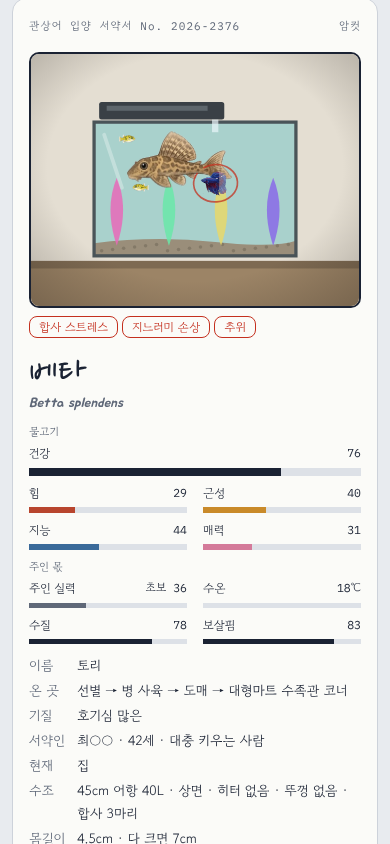
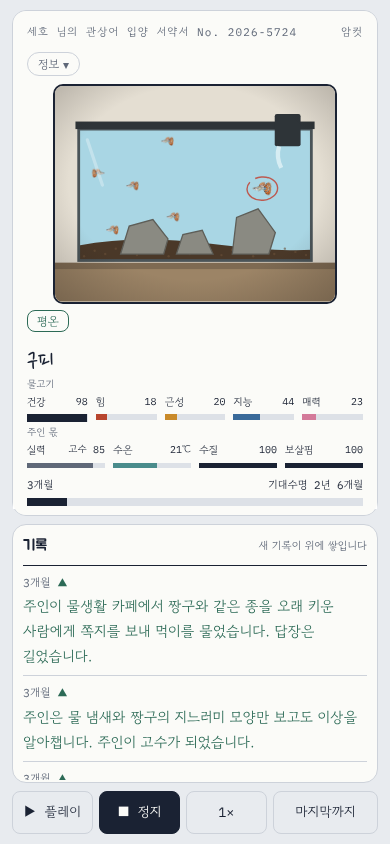
Docs for the release: shared memorial architecture, one-screen play, milestones (v0.9.30)

diff --git a/public/index.html b/public/index.html
@@ -120,7 +120,7 @@
     <div class="row memtools"><button type="button" class="btn ghost" id="pubMore" hidden>더 보기</button></div>
   </section>
 
-  <p class="foot">물고기 이야기 속 사건과 확률은 실제 통계(공공 수족관의 연간 폐사율, 운송·판매 중 폐사 조사, 선물로 받은 금붕어의 생존 등)에 맞춰 조정한 추정치이고, 화면에 사실로 나오는 수치는 모두 출처가 있습니다. 출처 목록은 저장소의 docs/DATA_SOURCES.md에 있습니다. 남긴 생과 닉네임은 이 브라우저(localStorage)에 저장됩니다. '모두의 주마등에도 올리기'를 고른 생만 서약인 이름, 물고기, 결말, 마지막 한마디와 함께 공개됩니다.<span class="ver">베타 v0.9.29 · 관상어 데이 · PARK, SEHO</span></p>
+  <p class="foot">물고기 이야기 속 사건과 확률은 실제 통계(공공 수족관의 연간 폐사율, 운송·판매 중 폐사 조사, 선물로 받은 금붕어의 생존 등)에 맞춰 조정한 추정치이고, 화면에 사실로 나오는 수치는 모두 출처가 있습니다. 출처 목록은 저장소의 docs/DATA_SOURCES.md에 있습니다. 남긴 생과 닉네임은 이 브라우저(localStorage)에 저장됩니다. '모두의 주마등에도 올리기'를 고른 생만 서약인 이름, 물고기, 결말, 마지막 한마디와 함께 공개됩니다.<span class="ver">베타 v0.9.30 · 관상어 데이 · PARK, SEHO</span></p>
 </div>
 
 <!-- load order matters: later files use what earlier files declare -->

diff --git a/LOG.md b/LOG.md
@@ -15,7 +15,7 @@ Status: ✅ Done · 🔄 In progress · ⬜ Not started
 | P2 | Content | 213 everyday events, 34 choices, 56 endings, 소감 / last words | ✅ | 2026-10-10 |
 | P3 | Art | Painterly round characters for 42 species, idle animation, cartoon gags, explicit endings; painted sprites for 15 dog breeds and 23 ornamental fish | ✅ | 2026-10-11 |
 | P4 | Data & balance | Sources per number, per-species tuning with `tools/sim.mjs` | 🔄 | |
-| P5 | Release | Public beta live at https://keep-me-until-the-end.onrender.com (GitHub → Render blueprint) | ✅ | 2026-10-12 |
+| P5 | Release | Public beta live at https://keep-me-until-the-end.onrender.com (GitHub → Render blueprint); shared memorial on Supabase | ✅ | 2026-10-12 |
 | P6 | Portfolio | Notion case-study page | ⬜ | |
 
 ## History
@@ -55,6 +55,7 @@ Status: ✅ Done · 🔄 In progress · ⬜ Not started
 | 2026-10-11 | v0.9.22 | **Rule change (user, 2026-10-11): wounds may bleed in text** — the tone stays a cruel fairy tale for ages 15+, drawings are unchanged. **Fact `fChain` rewritten:** the vague "2% to over 70%" is replaced by two concrete findings — 40 of 50 boxes of cardinal tetras imported to the US lost to mortality (Chapman et al. 1997) and 30–70% of Amazon-caught fish dead before the consumer (Waichman et al. 2001), both via Oliveira et al. 2008 (Acta Amazonica 38(4)); the ending paragraph under it no longer repeats the fact. **Stats split in two rows:** 물고기 — 건강 (HP) · 힘 · 근성 · 지능 · 매력; 주인 몫 — 주인 실력 · 수온 · 수질 · 보살핌 (in the wild: 강물 — 수온 · 먹이 찾기). New stat 힘 (strength): wins fights with its own kind, takes less fin damage and bullying, adds to crisis survival; 근성 now also slows health loss; 영리함 → 지능, 애교 → 매력. 수온 is a °C reading derived from the same conditions the hazards use (season, heater, small bowl, window, pond, river, warm outflow; 36 °C during a stuck-heater crisis) with a bar for how far it is from the species' range (cold 18–24, cool 22–26, tropical 24–28, warm 22–30). Training gains and descriptions follow the new stats; schedule prompts include "살아남아, {n}." **Crueler:** the fish's own voice (「숨이… 숨이 안 쉬어져.」「아가미가 뜨거워.」「아파. 꼬리가 없어진 것 같아.」) follows ~70% of lines about ammonia, chlorine, cold, heat, the bag, hunger, wounds, disease, sorting, the hand, the cat, the floor (at most one per step, not in skip mode); endings for uncycled tanks, neglect, disease (a last-stage line per disease), nipping, mauling, being eaten, jumping, tap water, culling and stress are rewritten in the body, with blood where there are wounds; fights and training failures bleed. Anchors unchanged: experts 6%/yr, learners 22% / casual 81% / gift 93% dead in year 1, 27% before any owner |
 | 2026-10-11 | v0.9.23 | The fish's voice is written under the line it answers, inside the same log row (it was a separate row above it and broke the log's grid); still kept as its own line in the 주마등 replay |
 | 2026-10-11 | v0.9.24 | **Context checks (the small things):** the fish's voice only answers bad lines (or good ones with a matching good voice: clean water, food from the hand, recovery, a hiding place) and the patterns were tightened — "먹이를 물었습니다" (asked) no longer reads as a bite, a water change "온도와 염소까지 맞춘" no longer burns. **A pond is not a room:** situations, options, everyday lines, training, twists and the fish's voice that need a glass tank in a room (glass, lid, heater, lights, window, TV, shelf, living room, siphon, stand…) are left out in a garden pond; "수조" in a pond log and in choice prompts reads "연못"; the lid fix becomes a net over the pond (also a new learning step for ponds without one); tap-water, soap/spray/hot-water poisoning and the siphon no longer happen in a pond; the winter blackout mentions the heater only when there is one (ponds freeze over instead); velvet rubs on stones in a pond; the charm line of a calm ending speaks of the pond's edge; a neglectful pond owner stops going out to the pond. Training failures only pick a mishap that fits the tank (no heater burn without a heater, no filter without one, no tankmates when alone); three pond-only schedule options (hide deep from herons, take food from the owner's hand, swim the pond's length). Lines about "other fish" in solo tanks and the old filter "thrown away" after an upgrade were fixed. **Owner rank** from 주인 실력: 왕초보 (<30) · 초보 (30) · 중수 (55) · 고수 (78), shown on the meter; each rank-up writes a line; a diligent learner who reaches 고수 after at least three lessons becomes an expert. Anchors: experts 5%/yr, learners 19% / casual 80% / gift 96% dead in year 1, 27% before any owner |
+| 2026-10-12 | v0.9.30 | **Documentation for the release day.** README: architecture of the shared memorial (static site on Render + Supabase with read/insert-only row-level security), the design decisions added today (the signer is the player; one screen while a life plays; facts checked per species), a milestone table, new desktop and phone screenshots of the one-screen layout with and without a dialog. DESIGN: sections on the signer, the screen layout and the shared memorial. DEPLOY: the Supabase step. ROADMAP: release outcome and next steps. Small fix found while taking the screenshots: an owner who reaches 중수 or 고수 now fits a thermostat heater to a tropical tank that had none |
 | 2026-10-12 | v0.9.29 | **모두의 주마등 is live.** Supabase project in Seoul with the `lives` table, row-level security (anyone may read and insert; nobody may change or delete from the browser), a `life_stats` counter and a 20-posts-a-minute trigger. The page uses the publishable key (apikey header only). Verified from a browser: insert 201, select 200, anonymous delete affects 0 rows; in headless Chromium a finished life posts with the box ticked (≈2 KB per life) and the shared list opens in the replay. Header line reads "지금까지 남겨진 생 n · 끝까지 산 생 m" |
 | 2026-10-12 | v0.9.28 | **The "실제로는" fact is about this fish.** A pea puffer killed in a fight was shown the betta fact. New `tools/check_facts.mjs` plays every species and lists which fact each ending showed, plus log lines that contradict the tank (heater, filter, pond, another species). Fixed: fights of non-bettas get the temperament fact; the pond heron ending gets a pond fact unless the fish is a koi; suffocation under a sealed lid gets an air-breathing fact unless it is a bichir; swim-bladder and Tetrahymena facts no longer talk about goldfish and guppies for other fish; species-specific virus facts (goldfish herpes, KHV, neon tetra disease, holes) fall back to the water-quality fact for other species; the generic accident fact no longer mentions cat-proof windows and leashes; fish abandoned on moving day get a moving fact instead of the owner-collapse one. Non-betta fights are no longer described as gill flaring. Big fish that are not hunters (pleco, clown loach) no longer become the river's top predator in a warm outflow; they settle there instead |
 | 2026-10-12 | v0.9.27 | **The player is the owner.** The pledge cannot be sent without a signer's name; the sheet shows "<name> 님의 반려생물 입양 서약서" as it is typed, and the first owner of every fish is the player under that name ("서약인 세호 님이 서약서에 서명했습니다", "세호 님은 휴대폰으로 사육법을 검색하며… 초보였습니다"); the owner type (expert, learner, casual…) is still drawn — it is what kind of keeper the player turns out to be. Later owners after a rehoming are other people. **One screen while a life plays:** nothing but the log scrolls. Desktop and landscape: the card (stage, gauges, details) with the controls on the left, the log in its own scrolling panel on the right; portrait tablets and phones: the card on top (details folded behind "정보"), the log below, controls at the bottom; every choice is a dialog over the screen (a bottom sheet on phones). The page returns to normal scrolling at the ending. Checked at 360×640 to 1440×900 and 844×390: the page height equals the screen height in play. **모두의 주마등 (shared memorial):** a kept life can also be posted for other players to replay (opt-in box; nickname, fish, ending, last words become public). Supabase table with insert/select-only row-level security, a 20-posts-a-minute limit, masked slurs, and every row rebuilt with known types before it is shown; hidden until the project keys are set (docs/SHARING.md) |

diff --git a/README.md b/README.md
@@ -14,15 +14,16 @@ A browser life-simulation about the promises we make to the animals we keep.
 > signed six promises. You choose its temperament, make its choices when it matters, raise it
 > through the seasons — and watch which promises are struck out in red pen.
 
-**Status:** public beta (v0.9.29, *관상어 데이* — "ornamental fish day": fish only) · **Live:** [keep-me-until-the-end.onrender.com](https://keep-me-until-the-end.onrender.com) · **Stack:** plain HTML / CSS / JavaScript, no build step · **Hosting:** Render static site · **Language:** the game is in Korean; all documentation is in English
+**Status:** public beta (v0.9.30, *관상어 데이* — "ornamental fish day": fish only) · **Live:** [keep-me-until-the-end.onrender.com](https://keep-me-until-the-end.onrender.com) · **Stack:** plain HTML / CSS / JavaScript, no build step · **Hosting:** Render static site + Supabase (shared memorial) · **Language:** the game is in Korean; all documentation is in English
 
 > **Content warning.** Neglect, breeding mills, smuggling, fish eaten by tankmates or flushed
 > alive are told as a cruel fairy tale: plain sentences, wounds that bleed in text, no gore in the
 > drawings. Intended for ages 15+.
 
-| Desktop | Phone |
+| Desktop — one screen: tank and gauges left, log right | Phone — tank on top, log below, controls at the bottom |
 |---|---|
 | ![desktop](docs/img/beta-desktop.png) | ![phone](docs/img/beta-phone.png) |
+| ![a schedule card as a dialog](docs/img/beta-desktop-choice.png) | ![a choice as a bottom sheet](docs/img/beta-phone-choice.png) |
 
 ## What happens in a life
 
@@ -48,6 +49,27 @@ The player signs the pledge with a nickname and is the fish's first owner under 
 keeper they turn out to be (expert, learner, casual…) is drawn. While a life plays, everything is on one
 screen: the tank and gauges, a scrolling log, and choices that open as dialogs.
 
+## Shared memorial (모두의 주마등)
+
+Finished lives can be shared between players. When a life is kept, a ticked box also posts it to a
+shared table; every visitor sees the latest lives at the bottom of the page and can replay any of them
+line by line, with its broken promises and last words.
+
+```
+browser (static site on Render)                 Supabase (Postgres, Seoul)
+  share.js ── POST /rest/v1/lives ───────────►  lives: nick, species, cause, kept, rec (jsonb)
+           ◄─ GET  /rest/v1/lives, life_stats ─  row-level security: read + insert only
+```
+
+- **No accounts, opt-in.** Only the nickname, the fish, the ending and the life record are stored, and
+  only when the player leaves the box ticked. The footer says so.
+- **Safe by construction.** The page holds only the publishable key; row-level security allows reading
+  and inserting and nothing else, so no visitor can edit or delete a row. A trigger caps posts at 20 a
+  minute, text columns have length checks, and a life record is limited to 24 KB.
+- **Untrusted on the way back.** Every row read from the table is rebuilt field by field with known
+  types and lengths, slurs are masked, and all text is inserted as text, never as HTML.
+- Setup, SQL and moderation: [docs/SHARING.md](docs/SHARING.md).
+
 ## Balance — anchored to real numbers
 
 `node tools/sim.mjs 6000` plays thousands of lives with random choices. The beta is tuned to:
@@ -72,8 +94,13 @@ decisions, in short:
 - **Only sourced numbers are shown as fact.** Estimates stay inside the mechanics; any figure
   on screen has a source in [docs/DATA_SOURCES.md](docs/DATA_SOURCES.md). A fact that was too vague to
   mean anything ("2% to over 70%") was replaced by a concrete case.
-- **The player is the fish, not the owner.** Choices are written in the fish's first person and
-  depend on its temperament and species; most are gambles with weighted outcomes.
+- **The player signs, the fish chooses.** The player is the owner by name — the pledge cannot be sent
+  without one — but what kind of keeper they turn out to be is drawn, and the choices belong to the
+  fish, written in its first person and shaped by its temperament and species. You make the promise;
+  you do not get to decide how well you keep it.
+- **One screen while a life plays.** Playtesters on phones kept scrolling between the log, the tank and
+  the speed buttons. The play view is now a fixed layout where only the log scrolls and choices open as
+  dialogs (bottom sheets on phones), checked from 360×640 to 1440×900.
 - **Crises are choices.** Accidents that used to kill outright became survival decisions, with
   their frequency raised so the overall death rate stays realistic.
 - **People differ.** Some owners learn from a mistake for good, some know the fix and put it off,
@@ -82,8 +109,25 @@ decisions, in short:
 - **Context is checked automatically.** Scripts play hundreds of lives in a pond, a bowl or a
   heated tank and flag any line that does not fit (a lid on a pond, a heater burn without a
   heater, tankmates for a fish living alone).
+- **Facts must match the fish.** `tools/check_facts.mjs` plays every species and lists which
+  real-world fact each ending showed; it caught a pea puffer being shown the betta fact and a dozen
+  similar mismatches.
 - **Responsive by test, not by eye.** The layout is rendered at 320–1440 px and on a landscape
   phone in headless Chromium and checked for overflow on every screen of a life.
+
+## Milestones
+
+| Version | Date | What changed |
+|---|---|---|
+| v0.1–v0.6 | 2026-10-10 | single-file prototype → modules; 42 species, pledge sheet and red pen, wild-survival model |
+| v0.7–v0.8 | 2026-10-10 | painted characters, cartoon gags, painted dog breeds |
+| v0.9 | 2026-10-11 | 관상어 데이: 23 painted fish, a full supply chain before any owner, tanks drawn to scale |
+| v0.9.12–0.9.20 | 2026-10-11 | balance against published anchors (easing reverted), crises as choices, owner types, layouts |
+| v0.9.21–0.9.24 | 2026-10-11 | raising the fish (stats, schedule), breeding modes, learning vs. lazy owners, context checks |
+| v0.9.25–0.9.26 | 2026-10-12 | public beta: responsive layout, OG image, GitHub → Render deploy |
+| v0.9.27–0.9.30 | 2026-10-12 | one-screen play, the player as owner, facts checked per species, shared memorial on Supabase |
+
+Every row is expanded in [LOG.md](LOG.md).
 
 ## Run it
 
@@ -119,6 +163,7 @@ render.yaml        Render blueprint
 | 키워주세요 — 끝까지 | "Please keep me — until the end" |
 | 서약서 | adoption pledge sheet |
 | 주마등 | revolving lantern; one's life flashing before one's eyes — the replay gallery |
+| 모두의 주마등 | "everyone's lantern" — the shared memorial of lives other players posted |
 | 육성 | raising / training (the schedule card) |
 | 고비 — 살아남기 | crisis — survive |
 | 왕초보 · 초보 · 중수 · 고수 | owner ranks: novice · beginner · intermediate · expert |

diff --git a/docs/DESIGN.md b/docs/DESIGN.md
@@ -127,6 +127,41 @@ Each of those endings carries an ecological fact.
 unflinching; from v0.9.22 wounds may bleed in text (a deliberate change), and the fish's own
 voice ("아가미가 뜨거워" — "my gills are burning") follows what happens to it.
 
+## The signer is the player (v0.9.27)
+
+The pledge cannot be sent without the player's name, and the sheet carries it as it is typed
+("세호 님의 반려생물 입양 서약서"). The first owner of every fish is the player under that name;
+what kind of keeper they turn out to be — expert, learner, casual, gift — is drawn, as it is in life:
+people sign the same promise and keep it very differently. Owners after a rehoming are other people.
+The choices still belong to the fish. The player makes the promise and watches how it is kept.
+
+## One screen while a life plays (v0.9.27)
+
+Playtesting on phones showed constant scrolling: down to a choice, up to the speed buttons, up again to
+see the tank. During play the page is now a fixed layout and only the log scrolls:
+
+| Screen | Layout |
+|---|---|
+| desktop, landscape tablet, landscape phone | card (tank, gauges, details) and controls on the left, the log in its own panel on the right |
+| portrait tablet, phone | card on top (details folded behind "정보"), log in the middle, controls at the bottom |
+| any | every choice is a dialog over the screen; on phones a bottom sheet |
+
+At the ending the page returns to normal scrolling so the ending, the promises and the memorial can be
+read in full.
+
+## Shared memorial (v0.9.29)
+
+A kept life can be posted for other players to replay. The design choices:
+
+- **Opt-in and minimal.** A ticked box, with the consequence stated under it: the nickname, the fish,
+  the ending and the last words become public. No accounts and no tracking.
+- **The browser can only read and add.** The table (Supabase, Postgres) has row-level security with a
+  read policy and an insert policy and nothing else; a trigger limits posts to 20 a minute.
+- **What comes back is untrusted.** Each row is rebuilt with known types and lengths before it is shown,
+  slurs are masked, and all text goes in as text.
+- **The replay is the same for everyone.** A shared life opens in the same 주마등 view as one's own,
+  line by line, then the summary of broken promises and the last words.
+
 ## Writing rules for the game text
 
 - Short, plain sentences in the past tense. No exclamation marks in narration.

diff --git a/ROADMAP.md b/ROADMAP.md
@@ -61,6 +61,10 @@ P0 Prototype ─► P1 Structure ─► P2 Content ─► P3 Art
   rewrite to the game for unknown paths, README and DEPLOY guide for the beta.
 - Live (2026-10-12): https://keep-me-until-the-end.onrender.com from GitHub `PSH020408/keep-me-until-the-end` via the Render blueprint;
   every push to `main` redeploys.
+- Same day, from playtest feedback: one-screen play on every screen size, the player as the named
+  owner, per-species fact checks, and the shared memorial on Supabase (`docs/SHARING.md`).
+- Next: watch the shared memorial for abuse in the first weeks; add a report button if needed; consider
+  a weekly summary of shared lives (most common causes of death) on the page.
 
 ## P6 · Portfolio ⬜
 - Gate: a Notion page that someone can read in five minutes and understand the problem,

diff --git a/docs/DEPLOY.md b/docs/DEPLOY.md
@@ -34,7 +34,13 @@ git push -u origin main
 
 By hand instead: **New → Static Site** → repository → Build command *(empty)* → Publish directory `public`.
 
-## 3. After the first deploy
+## 3. Shared memorial (Supabase)
+
+The shared memorial needs one Supabase project (free tier, Seoul). Steps, SQL and moderation are in
+[SHARING.md](SHARING.md); the project URL and the publishable key live in `public/js/share.js`. Leaving
+them empty hides the feature.
+
+## 4. After the first deploy
 
 - Live: https://keep-me-until-the-end.onrender.com — linked at the top of `README.md`; `og:url`, `og:image` and the canonical link use it.
 - If the address ever changes, update those three tags in `public/index.html` and the README.
